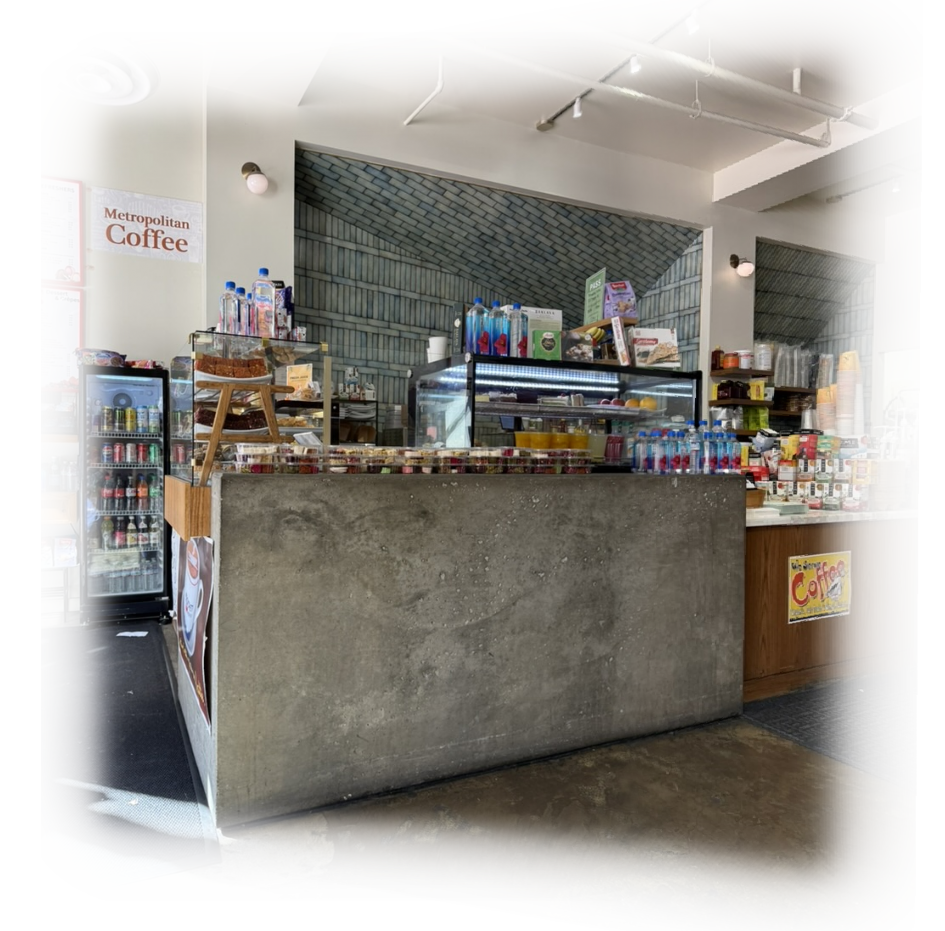
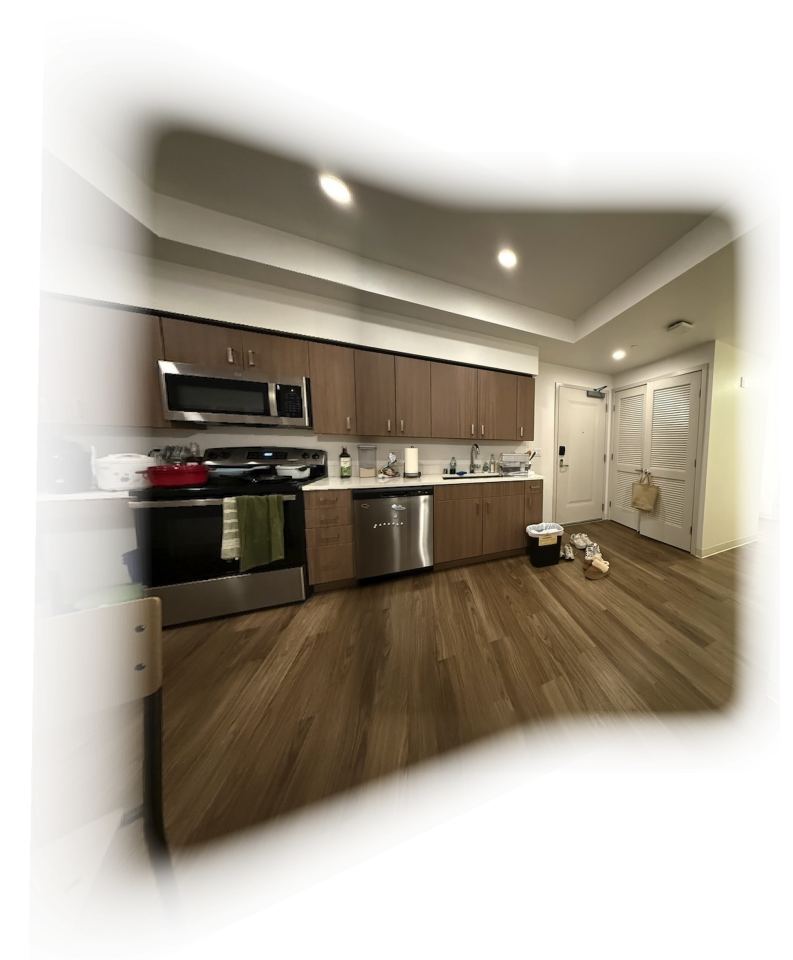
Update images

diff --git a/project4/index.html b/project4/index.html
@@ -287,7 +287,7 @@ def warp_image(im, H, method):
         <p class="mt-3">
           With homography calculation and warping now available, I blended the original three image sets together. I
           used a two-level Laplacian stack to blend the images, which resulted in virtually seamless mosaics.
-          I created a rectangular mask slightly smaller than the bounds of each image, then blurred that mask differently for each level of the stack.
+          I created a rectangular mask (pre-warping) slightly smaller than the bounds of each image, then blurred that mask differently for each level of the stack.
           I then bounded the visualization accordingly to fit the two blended images.
         </p>
         <div class="d-flex flex-wrap justify-content-center gap-3 mt-3">
